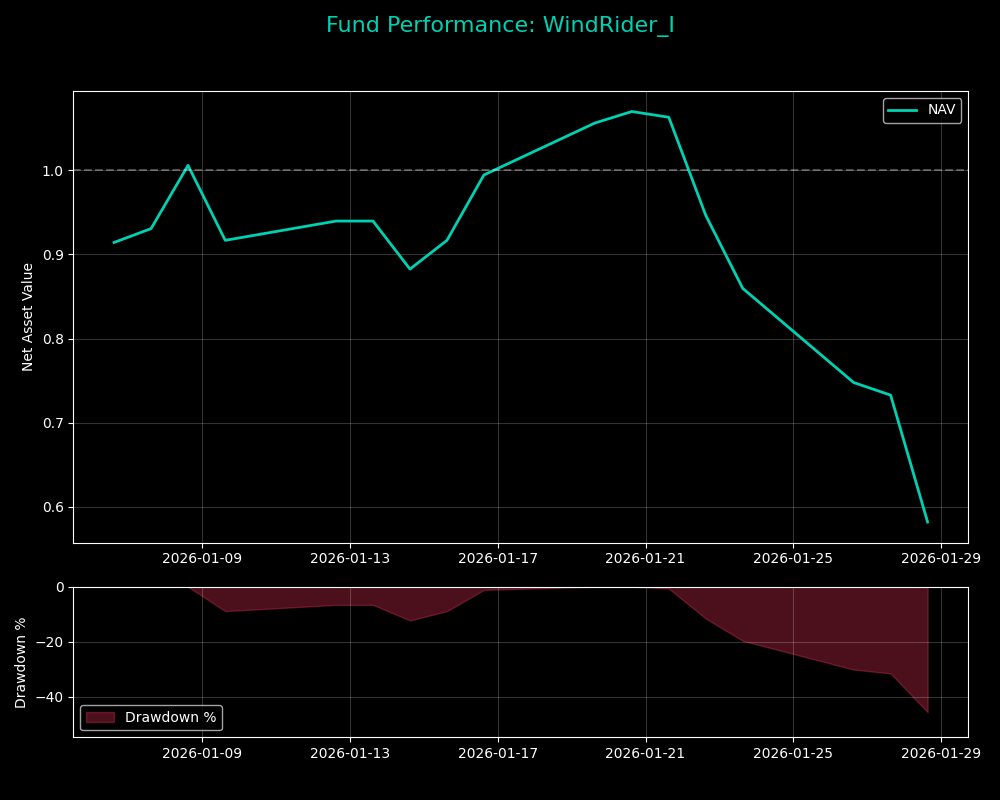
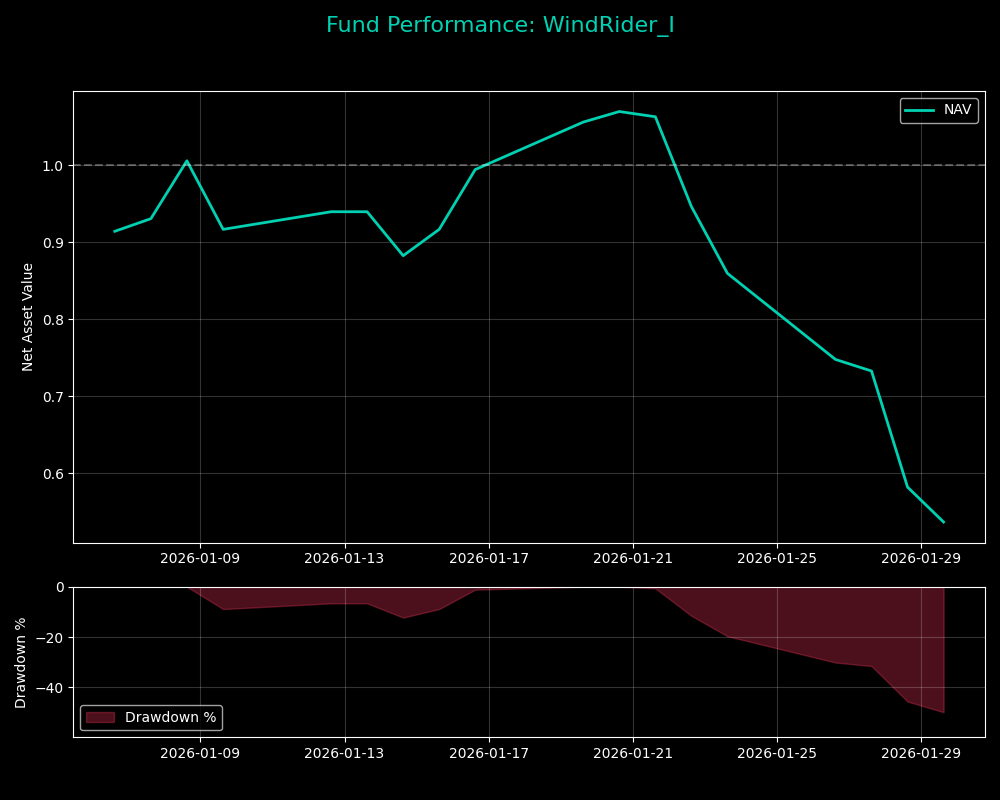
Updated Hugo site content

diff --git a/public/investment/windrider-1/index.html b/public/investment/windrider-1/index.html
@@ -66,8 +66,8 @@
   <meta property="og:locale" content="zh-cn">
   <meta property="og:type" content="article">
     <meta property="article:section" content="investment">
-    <meta property="article:published_time" content="2026-01-28T16:17:30+08:00">
-    <meta property="article:modified_time" content="2026-01-28T16:17:30+08:00">
+    <meta property="article:published_time" content="2026-01-29T20:31:08+08:00">
+    <meta property="article:modified_time" content="2026-01-29T20:31:08+08:00">
 <meta name="twitter:card" content="summary">
 <meta name="twitter:title" content="风舵1号 (WindRider I)  /// 指数">
 <meta name="twitter:description" content="商品期货分形摆动策略实盘">
@@ -103,11 +103,11 @@
   "keywords": [
     
   ],
-  "articleBody": " 风舵1号 (WindRider I) /// 指数 商品期货分形摆动策略实盘\n净值简报 (截至: 2026-01-28)\n指数代码： WDR1.CTA 起步日期： 2026-01-06 最新净值： 0.5820 今日涨跌： -20.58% ===========================\n核心指标 累计涨跌： -41.80% 年化收益： -99.99% 最大回撤： -45.60% 卡玛比率： -2.19 策略状态： 已运行 23 天 净值曲线图 声明：本页面数据为实盘记录，持仓数据每日收盘后更新。\n数据仅供技术交流，不构成投资建议。\n",
+  "articleBody": " 风舵1号 (WindRider I) /// 指数 商品期货分形摆动策略实盘\n净值简报 (截至: 2026-01-29)\n指数代码： WDR1.CTA 起步日期： 2026-01-06 最新净值： 0.5366 今日涨跌： -7.80% ===========================\n核心指标 累计涨跌： -46.34% 年化收益： -99.99% 最大回撤： -49.85% 卡玛比率： -2.01 策略状态： 已运行 24 天 净值曲线图 声明：本页面数据为实盘记录，持仓数据每日收盘后更新。\n数据仅供技术交流，不构成投资建议。\n",
   "wordCount" : "34",
   "inLanguage": "zh-cn",
-  "datePublished": "2026-01-28T16:17:30+08:00",
-  "dateModified": "2026-01-28T16:17:30+08:00",
+  "datePublished": "2026-01-29T20:31:08+08:00",
+  "dateModified": "2026-01-29T20:31:08+08:00",
   "mainEntityOfPage": {
     "@type": "WebPage",
     "@id": "https://hankou.com/investment/windrider-1/"
@@ -191,7 +191,7 @@
     <div class="post-description">
       商品期货分形摆动策略实盘
     </div>
-    <div class="post-meta"><span title='2026-01-28 16:17:30 +0800 CST'>January 28, 2026</span>
+    <div class="post-meta"><span title='2026-01-29 20:31:08 +0800 CST'>January 29, 2026</span>
 
 </div>
   </header> 
@@ -203,7 +203,7 @@
 </style>
 <h3 id="风舵1号-windrider-i--指数">风舵1号 (WindRider I)   <span style="color: #E63946; font-weight: bold;">/</span><span style="color: #F1A73E; font-weight: bold;">/</span><span style="color: #000091; font-weight: bold;">/</span>   指数<a hidden class="anchor" aria-hidden="true" href="#风舵1号-windrider-i--指数">#</a></h3>
 <p>商品期货分形摆动策略实盘<br>
-净值简报 <small>(截至: 2026-01-28)</small></p>
+净值简报 <small>(截至: 2026-01-29)</small></p>
 <table>
   <thead>
       <tr>
@@ -222,11 +222,11 @@
       </tr>
       <tr>
           <td style="text-align: left"><strong>最新净值：</strong></td>
-          <td style="text-align: left">0.5820</td>
+          <td style="text-align: left">0.5366</td>
       </tr>
       <tr>
           <td style="text-align: left"><strong>今日涨跌：</strong></td>
-          <td style="text-align: left">-20.58%</td>
+          <td style="text-align: left">-7.80%</td>
       </tr>
   </tbody>
 </table>
@@ -241,7 +241,7 @@
   <tbody>
       <tr>
           <td style="text-align: left"><strong>累计涨跌：</strong></td>
-          <td style="text-align: left">-41.80%</td>
+          <td style="text-align: left">-46.34%</td>
       </tr>
       <tr>
           <td style="text-align: left"><strong>年化收益：</strong></td>
@@ -249,15 +249,15 @@
       </tr>
       <tr>
           <td style="text-align: left"><strong>最大回撤：</strong></td>
-          <td style="text-align: left">-45.60%</td>
+          <td style="text-align: left">-49.85%</td>
       </tr>
       <tr>
           <td style="text-align: left"><strong>卡玛比率：</strong></td>
-          <td style="text-align: left">-2.19</td>
+          <td style="text-align: left">-2.01</td>
       </tr>
       <tr>
           <td style="text-align: left"><strong>策略状态：</strong></td>
-          <td style="text-align: left">已运行 23 天</td>
+          <td style="text-align: left">已运行 24 天</td>
       </tr>
   </tbody>
 </table>

diff --git a/public/investment/position/index.html b/public/investment/position/index.html
@@ -66,8 +66,8 @@
   <meta property="og:locale" content="zh-cn">
   <meta property="og:type" content="article">
     <meta property="article:section" content="investment">
-    <meta property="article:published_time" content="2026-01-28T17:14:39+08:00">
-    <meta property="article:modified_time" content="2026-01-28T17:14:39+08:00">
+    <meta property="article:published_time" content="2026-01-29T15:11:24+08:00">
+    <meta property="article:modified_time" content="2026-01-29T15:11:24+08:00">
 <meta name="twitter:card" content="summary">
 <meta name="twitter:title" content="持仓 Position">
 <meta name="twitter:description" content="WindRider Stock Portfolio">
@@ -106,8 +106,8 @@
   "articleBody": " 风舵股票组合 /// 每日持仓 WindRider Equity Portfolio 净值简报 (截至: 2026-01-28)\n指数代码： WDR.EQ 成立日期： 2025-11-19 最新净值： 1.1640 今日涨跌： -0.68% ===========================\n核心表现 累计收益： +16.40% 年化收益： +120.75% 最大回撤： -2.87% 基准点位： 4717.99 (CSI300) 策略状态： 已运行 71 天 持仓明细 股票名称 成本价 现价 盈亏 占比 先导智能 300450 49.41 59.50 +20.42% 50.47% 新 和 成 002001 24.77 28.05 +13.23% 46.59% 收益率对比曲线 声明：本页面数据为实盘记录，持仓数据每日收盘后更新。\n数据仅供技术交流，不构成投资建议。\n",
   "wordCount" : "55",
   "inLanguage": "zh-cn",
-  "datePublished": "2026-01-28T17:14:39+08:00",
-  "dateModified": "2026-01-28T17:14:39+08:00",
+  "datePublished": "2026-01-29T15:11:24+08:00",
+  "dateModified": "2026-01-29T15:11:24+08:00",
   "mainEntityOfPage": {
     "@type": "WebPage",
     "@id": "https://hankou.com/investment/position/"
@@ -191,7 +191,7 @@
     <div class="post-description">
       WindRider Stock Portfolio
     </div>
-    <div class="post-meta"><span title='2026-01-28 17:14:39 +0800 CST'>January 28, 2026</span>
+    <div class="post-meta"><span title='2026-01-29 15:11:24 +0800 CST'>January 29, 2026</span>
 
 </div>
   </header> 

diff --git a/public/investment/index.html b/public/investment/index.html
@@ -146,26 +146,26 @@
 
 <article class="post-entry"> 
   <header class="entry-header">
-    <h2 class="entry-hint-parent">持仓 Position
-    </h2>
-  </header>
-  <div class="entry-content">
-    <p>主动管理型股票组合。对标沪深300指数，采用基本面选股策略。</p>
-  </div>
-  <footer class="entry-footer"><span title='2026-01-28 17:14:39 +0800 CST'>January 28, 2026</span></footer>
-  <a class="entry-link" aria-label="post link to 持仓 Position" href="https://hankou.com/investment/position/"></a>
-</article>
-
-<article class="post-entry"> 
-  <header class="entry-header">
     <h2 class="entry-hint-parent">风舵1号 (WindRider I)  /// 指数
     </h2>
   </header>
   <div class="entry-content">
     <p>商品期货分形摆动策略，实盘最新净值与核心风险指标。</p>
   </div>
-  <footer class="entry-footer"><span title='2026-01-28 16:17:30 +0800 CST'>January 28, 2026</span></footer>
+  <footer class="entry-footer"><span title='2026-01-29 20:31:08 +0800 CST'>January 29, 2026</span></footer>
   <a class="entry-link" aria-label="post link to 风舵1号 (WindRider I)  /// 指数" href="https://hankou.com/investment/windrider-1/"></a>
+</article>
+
+<article class="post-entry"> 
+  <header class="entry-header">
+    <h2 class="entry-hint-parent">持仓 Position
+    </h2>
+  </header>
+  <div class="entry-content">
+    <p>主动管理型股票组合。对标沪深300指数，采用基本面选股策略。</p>
+  </div>
+  <footer class="entry-footer"><span title='2026-01-29 15:11:24 +0800 CST'>January 29, 2026</span></footer>
+  <a class="entry-link" aria-label="post link to 持仓 Position" href="https://hankou.com/investment/position/"></a>
 </article>
 
 <article class="post-entry"> 

diff --git a/content/investment/position.md b/content/investment/position.md
@@ -1,8 +1,8 @@
 +++
 title = "持仓 Position"
 summary = "主动管理型股票组合。对标沪深300指数，采用基本面选股策略。"
-date = 2026-01-29T15:11:24+08:00
-lastmod = 2026-01-29T15:11:24+08:00
+date = 2026-01-29T20:53:21+08:00
+lastmod = 2026-01-29T20:53:21+08:00
 draft = false
 description = "WindRider Stock Portfolio"
 +++
@@ -12,30 +12,30 @@ description = "WindRider Stock Portfolio"
 
 ### 风舵股票组合 &nbsp;&nbsp;<span style="color: #E63946; font-weight: bold;">/</span><span style="color: #F1A73E; font-weight: bold;">/</span><span style="color: #000091; font-weight: bold;">/</span>&nbsp;&nbsp; 每日持仓
 WindRider Equity Portfolio <br>
-净值简报 <small>(截至: 2026-01-28)</small>
+净值简报 <small>(截至: 2026-01-29)</small>
 
 |  |  |
 | :--- | :--- |
 | **指数代码：** | WDR.EQ |
 | **成立日期：** | 2025-11-19 |
-| **最新净值：** | 1.1640 |
-| **今日涨跌：** | -0.68% |
+| **最新净值：** | 1.1349 |
+| **今日涨跌：** | -2.50% |
 
 ===========================
 
 | 核心表现 | |
 | :--- | :--- |
-| **累计收益：** | +16.40% |
-| **年化收益：** | +120.75% |
-| **最大回撤：** | -2.87% |
-| **基准点位：** | 4717.99 (CSI300) |
-| **策略状态：** | 已运行 71 天 |
+| **累计收益：** | +13.49% |
+| **年化收益：** | +91.66% |
+| **最大回撤：** | -5.30% |
+| **基准点位：** | 4753.87 (CSI300) |
+| **策略状态：** | 已运行 72 天 |
 
 ### 持仓明细
 | 股票名称 | 成本价 | 现价 | 盈亏 | 占比 |
 | :--- | :--- | :--- | :--- | :--- | :--- |
-| 先导智能 <small>300450</small> | 49.41 | 59.50 | <span style="color:#E63946">+20.42%</span> | 50.47% |
-| 新 和 成 <small>002001</small> | 24.77 | 28.05 | <span style="color:#E63946">+13.23%</span> | 46.59% |
+| 先导智能 <small>300450</small> | 49.41 | 56.34 | <span style="color:#E63946">+14.02%</span> | 49.03% |
+| 新 和 成 <small>002001</small> | 24.77 | 28.14 | <span style="color:#E63946">+13.59%</span> | 48.98% |
 
 <br>
 
